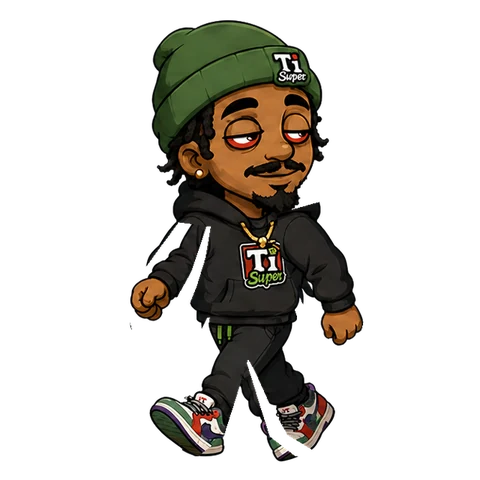
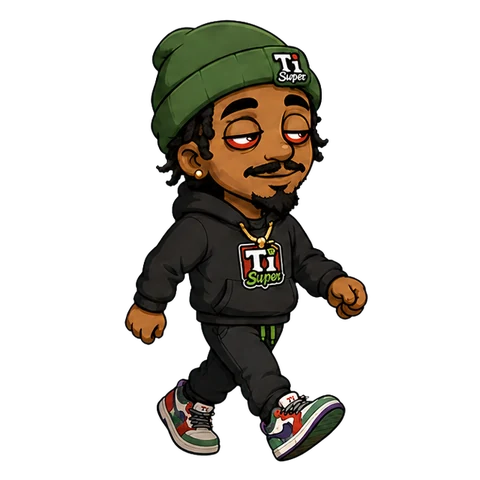
Correct V6.3 walk foot direction

diff --git a/README.md b/README.md
@@ -8,6 +8,6 @@ Public hosted artwork for the PotatoPcTi_Super StreamElements widget.
 https://raw.githubusercontent.com/cmwashum-dot/potatopcti-super-widget-art/main/HostedArt
 ```
 
-[Test the idle character sprite](https://raw.githubusercontent.com/cmwashum-dot/potatopcti-super-widget-art/main/HostedArt/v5/assets/character/idle/idle_01.webp?v=6.2.0)
+[Test the idle character sprite](https://raw.githubusercontent.com/cmwashum-dot/potatopcti-super-widget-art/main/HostedArt/v5/assets/character/idle/idle_01.webp?v=6.3.0)
 
-V6.2 contains 37 optimized WebP assets. Its hosted character actions were republished without truncation, and the walk cycle uses four stable full-body poses. Keep the repository public and preserve the existing folder structure so StreamElements can load the artwork.
+V6.3 contains 37 optimized WebP assets. The walk cycle uses four forward-facing full-body poses with no mirrored footwear, and protected sprite swapping prevents blank action frames. Keep the repository public and preserve the existing folder structure so StreamElements can load the artwork.